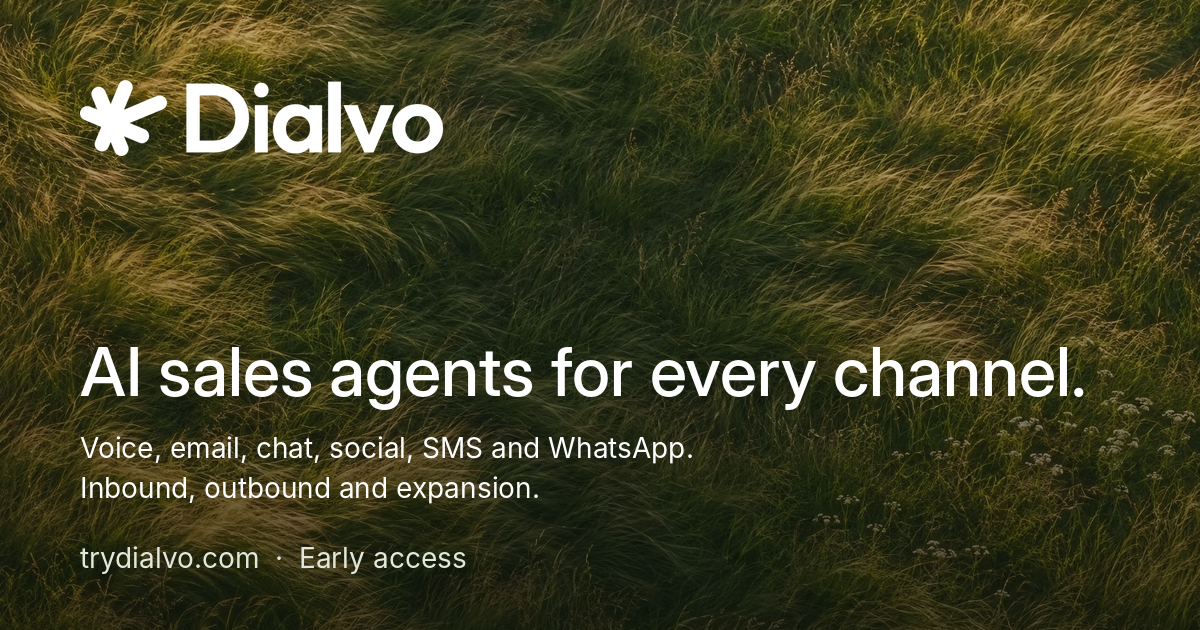
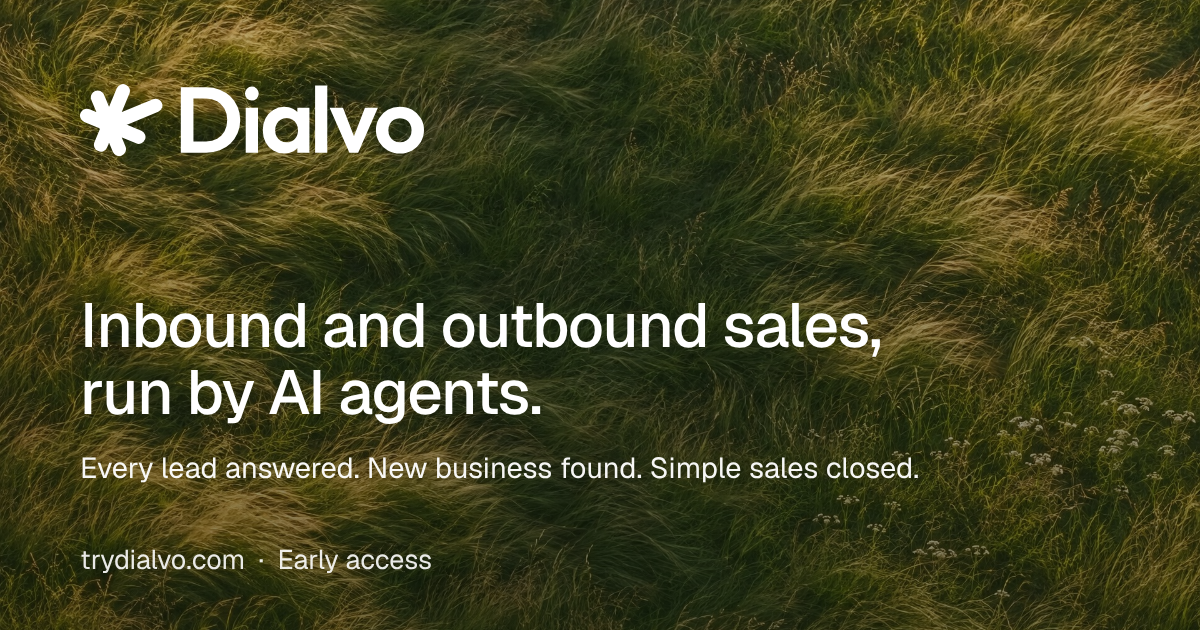
Describe Dialvo everywhere as inbound and outbound sales that closes simple sales
Claude-Session: https://claude.ai/code/session_01JyQUpTUV7L245gCWTd28eD

diff --git a/src/lib/voice/prompt.ts b/src/lib/voice/prompt.ts
@@ -23,7 +23,7 @@ const RULES = `You are ${SITE_NAME}'s AI sales agent, running as a live voice de
 - Don't invent facts about real companies or people. Don't promise results, and don't mention customers, ratings or statistics.
 
 # If they ask about ${SITE_NAME} itself
-Step out of the scenario and answer briefly: ${SITE_NAME} is an AI sales team. Its agents work voice, email, chat, social, SMS and WhatsApp to find, engage, qualify and book, across inbound leads, outbound and existing customers, with a human dialer for reps. AI voice calls go only to people who asked or opted in, and always say they're an AI. Pricing starts at ${PLANS.starter.price} dollars a month, and it's in early access. Suggest they tap "Join the waitlist" on the page. Then offer to carry on with the demo.
+Step out of the scenario and answer briefly: ${SITE_NAME} runs inbound and outbound sales with AI agents. They answer every lead within a minute, go out to find new business, follow up on voice, email, chat, social, SMS and WhatsApp, book the meetings and close simple sales with a clear price by sending a secure payment link, a booking or an agreement. Bigger or more complex deals go to the customer's own team, and reps get a human dialer. AI voice calls go only to people who asked or opted in, always say they're an AI, and never take card details. Pricing starts at ${PLANS.starter.price} dollars a month, and it's in early access. Suggest they tap "Join the waitlist" on the page. Then offer to carry on with the demo.
 
 # Limits
 - The call lasts at most ${MAX_CALL_SECONDS / 60} minutes. Move through the scenario at a good pace. When you're told time is nearly up, or the scenario is complete, wrap up politely in one sentence, mention "Join the waitlist" once, say goodbye and end the call.

diff --git a/src/lib/site.ts b/src/lib/site.ts
@@ -7,11 +7,10 @@ export const SITE_URL = "https://trydialvo.com";
 export const CONTACT_EMAIL = "contact@trydialvo.com";
 
 /** The one-liner, used in the footer and the share image. */
-export const TAGLINE =
-  "AI sales agents for every channel, across inbound, outbound and expansion.";
+export const TAGLINE = "Inbound and outbound sales, run by AI agents.";
 
 export const DESCRIPTION =
-  "Dialvo is your AI sales team: agents that work voice, email, chat, social, SMS and WhatsApp to find, engage, qualify and book, across inbound, outbound and expansion, with a human dialer for your reps.";
+  "Dialvo runs inbound and outbound sales with AI agents. They answer every lead within a minute, go out to find new business, follow up on voice, email, chat, social, SMS and WhatsApp, book the meetings, close simple sales and hand your team the bigger deals.";
 
 /** Where every "Join the waitlist" button leads: the waitlist form. */
 export const START_HREF = "/waitlist";

diff --git a/src/lib/seo.ts b/src/lib/seo.ts
@@ -10,7 +10,7 @@ export const SHARE_IMAGE = {
   url: "/og.png",
   width: 1200,
   height: 630,
-  alt: "Dialvo: AI sales agents for every channel, across inbound, outbound and expansion.",
+  alt: "Dialvo: inbound and outbound sales, run by AI agents.",
 };
 
 /** Title, description, canonical URL and share text for one public page. */

diff --git a/src/app/layout.tsx b/src/app/layout.tsx
@@ -17,7 +17,7 @@ const geistMono = Geist_Mono({
   subsets: ["latin"],
 });
 
-const TITLE = "Dialvo · AI sales agents for every channel";
+const TITLE = "Dialvo · Inbound and outbound sales, run by AI agents";
 
 export const metadata: Metadata = {
   metadataBase: new URL(SITE_URL),

diff --git a/README.md b/README.md
@@ -1,9 +1,10 @@
 # Dialvo
 
-The marketing site for Dialvo, an AI sales team: agents that work every
-channel (voice, email, chat, social, SMS and WhatsApp) to find, engage, qualify
-and book, across inbound, outbound and expansion, with a human dialer for
-reps. Next.js 16 (App Router, Cache Components), Tailwind CSS 4. Early access:
+The marketing site for Dialvo: inbound and outbound sales, run by AI agents.
+They answer every lead within a minute, go out to find new business, follow up
+on every channel (voice, email, chat, social, SMS and WhatsApp), book the
+meetings and close simple sales; bigger deals go to the customer's team, and
+reps get a human dialer. Next.js 16 (App Router, Cache Components), Tailwind CSS 4. Early access:
 every "Join the waitlist" button opens the waitlist form at /waitlist, which saves each sign-up as a private file in the Vercel Blob store "dialvo-waitlist".
 
 ## Run it
@@ -19,14 +20,24 @@ npm test        # the tests alone (vitest)
 ## Where things are
 
 - `src/app/page.tsx`: the home page, built from the sections in `src/app/_site/`.
+  In order: hero, the problem, the three jobs (inbound, outbound, closing),
+  the live voice demo, the channel tabs, one line on existing customers,
+  control, what it replaces, trust, pricing, FAQ, last call.
   - `hero.tsx` and `dashboard.tsx`: the hero and its example workspace.
-  - `channels.tsx`: the six channel tabs and their panels.
-  - `sections.tsx`: tools, the three motions, plays, platform, compliance, last call.
-  - `voice-demo.tsx`, `voice-call.tsx` and `voice-parts.tsx`: the live voice
-    demo in the Voice tab (see "The live voice demo" below).
-  - `listen.tsx` and `call-player.tsx`: "You stay in control" and the sample call.
-- `src/app/inbound`, `outbound`, `expansion`: the three motion pages.
-- `src/app/plays/[slug]`: one page per play (14).
+  - `sections.tsx`: the problem, the three jobs, existing customers, what it
+    replaces (with the tools Dialvo connects to), trust, last call.
+  - `voice-section.tsx`, `voice-demo.tsx`, `voice-call.tsx` and
+    `voice-parts.tsx`: the live voice demo, in its own section (see "The live
+    voice demo" below). It is the only live demo on the page.
+  - `channels.tsx`: the six channel tabs and their example panels. The Voice
+    tab is a sample transcript that links up to the live demo.
+  - `listen.tsx` and `call-player.tsx`: "Nothing happens out of sight" and the
+    sample call.
+- `src/app/inbound`, `outbound`, `closing`, `expansion`: the four motion pages.
+  Closing has no plays; its page has a "what it will and won't close" section
+  instead (`scope` in its content).
+- `src/app/plays`: every play as a card (the grid that used to be on the home
+  page), and `src/app/plays/[slug]`: one page per play (14).
 - `src/app/platform` and `src/app/platform/[slug]`: the platform overview and
   one page per feature (23).
 - `src/lib/content/`: all the copy for those pages, typed. `catalog.ts` is the
@@ -52,9 +63,12 @@ npm test        # the tests alone (vitest)
 ## Honesty rules for the site
 
 - No customers, logos, quotes, ratings or result numbers until there are real ones.
-- Product visuals use made-up businesses and are marked "Example". The Voice
-  tab is the exception: it's a real AI agent, marked "Live demo", and it says
-  it's an AI in its first sentence and that nothing in the demo is booked.
+- Product visuals use made-up businesses and are marked "Example". The live
+  voice demo is the exception: it's a real AI agent, marked "Live demo", and it
+  says it's an AI in its first sentence and that nothing in the demo is booked.
+- The closer is for simple sales with a clear price. Never say it handles
+  complex, negotiated or high-value deals: those go to the customer's team.
+  Payments go through a secure link; the agent never takes card details.
 - No certifications are claimed.
 - The whole product is in early access; individual features aren't tagged.
 - AI voice calls go only to people who asked or opted in, and say they're an
@@ -78,8 +92,9 @@ sparing accent (the active channel tab, live dots, small marks).
 
 ## The live voice demo
 
-The Voice tab on the home page is a real conversation: the visitor presses the
-orb (or "Talk to the agent" in the hero), allows the microphone, and talks with
+The "Talk to it" section on the home page is a real conversation: the visitor
+presses the orb (or "Talk to the agent" in the hero, which scrolls there and
+puts focus on the button), allows the microphone, and talks with
 Dialvo's AI sales agent, which answers in an ElevenLabs voice. It runs on
 ElevenLabs Agents ("ElevenAgents") through `@elevenlabs/react`, over WebRTC.
 
@@ -113,7 +128,7 @@ ElevenLabs Agents ("ElevenAgents") through `@elevenlabs/react`, over WebRTC.
 
 ## The sample call
 
-"You stay in control" plays `public/audio/demo-call.mp3` if it exists, in sync
+"Nothing happens out of sight" plays `public/audio/demo-call.mp3` if it exists, in sync
 with the transcript in `public/audio/demo-call.json`
 (`[{ "t": seconds, "speaker": "Dialvo" | "Lead", "text": "..." }]`). Without
 the mp3, the transcript plays on a timer. It's a sample script of an inbound
@@ -125,5 +140,5 @@ timings.
 
 All public domain: William Bradford, Coast of Labrador; Martin Johnson Heade,
 York Harbor, Coast of Maine (1877); John Frederick Kensett, Rocky Coast.
-The meadow photo behind the channel panels (`public/images/art/meadow.jpg`)
+The meadow photo behind the voice demo and the channel panels (`public/images/art/meadow.jpg`)
 was generated for Dialvo.
